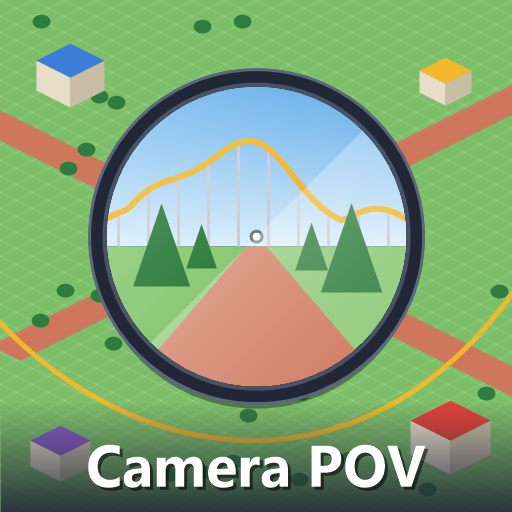
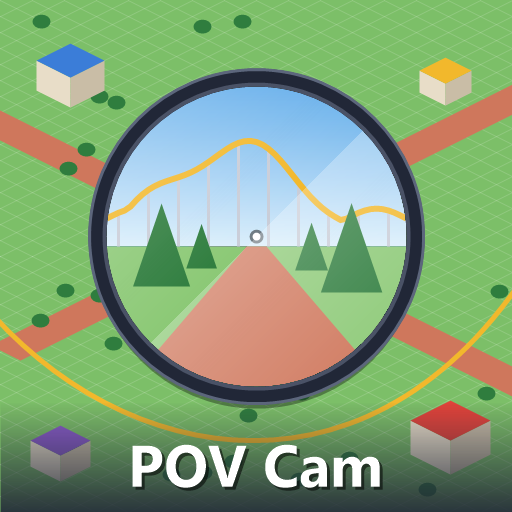
Rename to POV Cam 0.10.1
Only the name shown in the game, the Workshop texts, the README and the preview change. The identifier stays xupisco@CameraPOV, so keys and settings carry over.

Changed region(s): [[0.1562, 0.8438, 0.8438, 0.9688]]

diff --git a/src/camera_pov_mod.cs b/src/camera_pov_mod.cs
@@ -18,7 +18,7 @@ namespace camera_pov
 
         public override string getName()
         {
-            return "Camera POV";
+            return "POV Cam";
         }
 
         public override string getDescription()
@@ -28,7 +28,7 @@ namespace camera_pov
 
         public override string getVersionNumber()
         {
-            return "0.10.0";
+            return "0.10.1";
         }
 
         public override string getIdentifier()

diff --git a/README.md b/README.md
@@ -1,10 +1,10 @@
-# Camera POV
+# POV Cam
 
 A [Parkitect](https://www.themeparkitect.com/) mod to see your park from the inside: walk around it at a guest's eye level, fly over it, see it through a guest's eyes, or ride your own coasters.
 
 [Steam Workshop page](https://steamcommunity.com/sharedfiles/filedetails/?id=3835039248)
 
-![Camera POV](workshop/preview.png)
+![POV Cam](workshop/preview.png)
 
 ## How to use it
 
@@ -38,11 +38,11 @@ A [Parkitect](https://www.themeparkitect.com/) mod to see your park from the ins
 
 ### Sound
 
-The game places sounds by where they are on screen, which suits the view from above. While Camera POV is on, sounds are placed by their real distance and side instead.
+The game places sounds by where they are on screen, which suits the view from above. While POV Cam is on, sounds are placed by their real distance and side instead.
 
 ### Settings
 
-Eye height, field of view, mouse sensitivity, inverted vertical look, collision while walking and the transition time are in the mod's settings. All keys can be changed in the game's controls settings, under Camera POV.
+Eye height, field of view, mouse sensitivity, inverted vertical look, collision while walking and the transition time are in the mod's settings. All keys can be changed in the game's controls settings, under POV Cam.
 
 The mod's texts are in English and Brazilian Portuguese, following the game's language. The camera is only yours, so other players in a multiplayer game don't need the mod.
 
